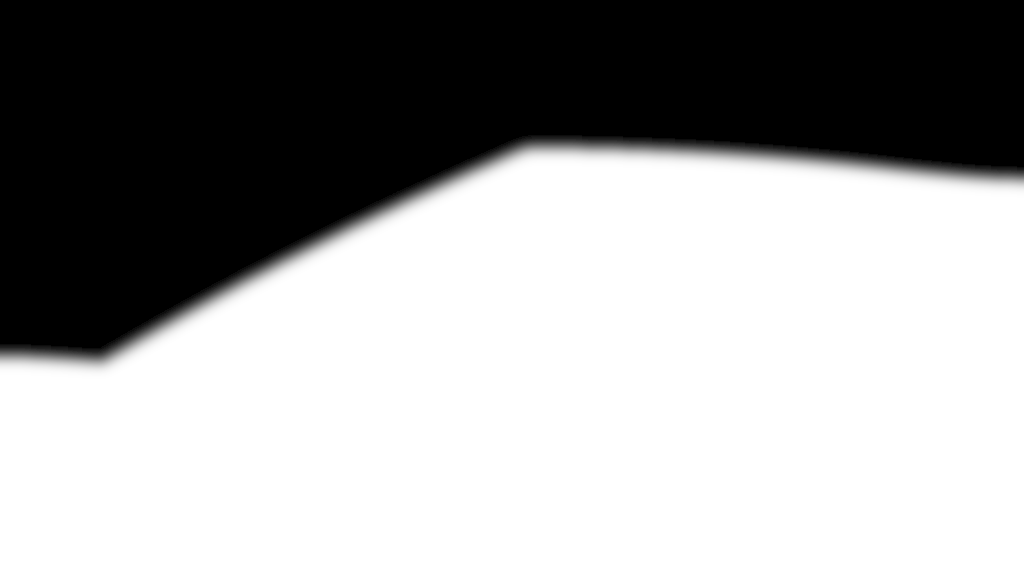
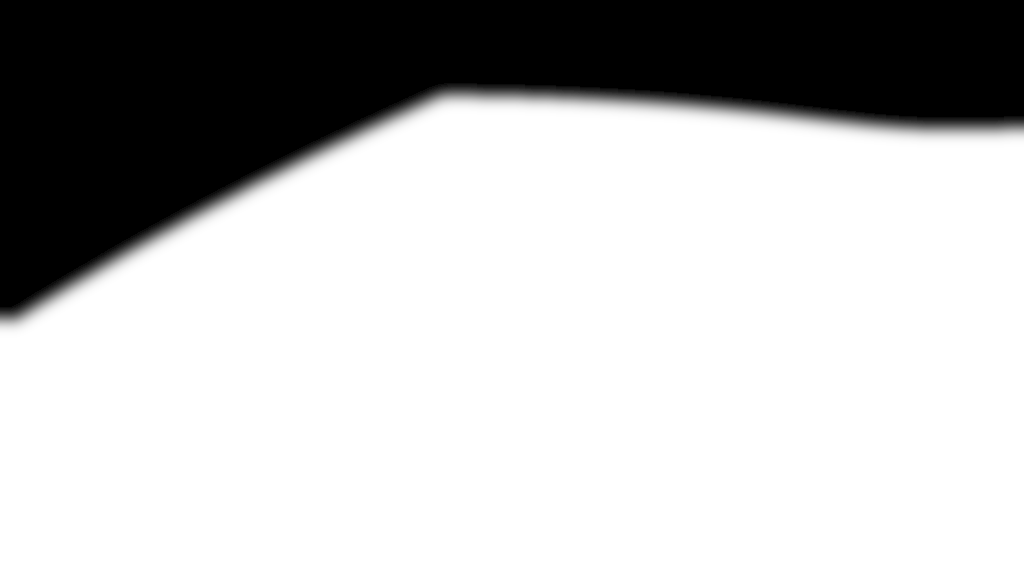
fix(videotwin): camera 17 mask v2 -- cover the model chairs next to the planters
On site: in camera 17's X view some model office chairs by the planters still showed, inside the painted area.
Measured: the X view is not aimed exactly like the projector. Comparing one X-view frame with and without the
mask (and, independently, the video in the X view against a camera frame) gives the same answer: the shader
samples the picture at the pinhole-model uv of the screen plus about (-0.08, -0.07). Most likely a rotation on
the level camera's own camera component, which the runtime does not reset (it only moves the actor).

- mask_17.png rebuilt with that offset, the screenshot registered to the kit's X view by SIFT + homography.
  Checked in the one-click kit: the whole workstation area in camera 17's view is video, no model chair left.
- mask_from_screenshot.py: --view-offset DU DV, and the caveat in its help.
- calibration.json: note on camera 17's mask.

Changed region(s): [[0.0, 0.125, 1.0, 0.6562]]

diff --git a/Tools/VideoTwin/mask_from_screenshot.py b/Tools/VideoTwin/mask_from_screenshot.py
@@ -10,8 +10,13 @@ Usage (Python 3 with numpy and opencv-python):
    calibration.json and restart. With --camera-frame it also writes mask_<id>_preview.jpg next to the screenshot:
    the camera picture, dimmed where the model will stay (it shows real people: keep it out of the repository).
 
-Why it works: the X view is a pinhole camera at the projector's calibrated pose with the same horizontal FOV, so
-every screen pixel maps to one point of the camera picture regardless of depth. The mapping below is the one in
+Why it works: the X view is a pinhole camera at the projector's calibrated position with the same horizontal FOV,
+so every screen pixel maps to one point of the camera picture regardless of depth.
+
+CAVEAT (2026-10-16): the X view is not aimed exactly like the projector. For camera 17 it was measured at
+(-0.08, -0.07) of the picture (shader uv = this mapping + that), most likely a rotation on the level camera's
+own camera component that the runtime does not reset. Pass it with --view-offset; measure it for other cameras
+first (compare one X-view frame with and without the mask, or the video in the X view against a camera frame). The mapping below is the one in
 projection.hlsl (normalised 16:9 picture, principal point, k1/k2 barrel distortion).
 
 Where the painted region touches the screenshot's edge it is carried on to the edge of the camera picture (the
@@ -50,6 +55,8 @@ def main():
     ap.add_argument('camera')
     ap.add_argument('screenshot')
     ap.add_argument('--camera-frame', help='a picture from the camera, for the preview')
+    ap.add_argument('--view-offset', nargs=2, type=float, default=[0.0, 0.0], metavar=('DU', 'DV'),
+                    help='measured offset of the X view in picture units (camera 17: -0.08 -0.07)')
     a = ap.parse_args()
     cam = json.loads((ROOT / 'Content/VideoTwin/calibration.json').read_text(encoding='utf-8'))['cameras'][a.camera]
     hfov, k1, k2 = cam['horizontal_fov_deg'], cam.get('k1', 0.0), cam.get('k2', 0.0)
@@ -60,7 +67,8 @@ def main():
     h, w = red.shape
     t = math.tan(math.radians(hfov / 2))
     u, v = np.meshgrid((np.arange(MW) + 0.5) / MW, (np.arange(MH) + 0.5) / MH)
-    qdx, qdy = (u - ppx) / (0.5 / t), (v - ppy) / (0.5 * aspect / t)
+    du, dv = a.view_offset
+    qdx, qdy = (u - du - ppx) / (0.5 / t), (v - dv - ppy) / (0.5 * aspect / t)
     qx, qy = qdx.copy(), qdy.copy()
     for _ in range(30):                     # undo the radial distortion
         r2 = qx * qx + qy * qy
